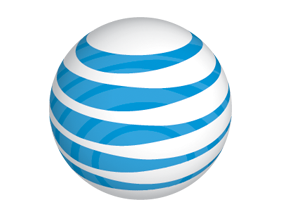
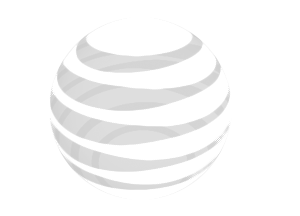
changed colors for some more consistency

Changed region(s): [[0.15, 0.0556, 0.78, 0.9444]]

diff --git a/index.html b/index.html
@@ -49,6 +49,8 @@
     <div id = "work-header"><div id = "workText">Where Have I Worked?</div></div>
     <section class = "workExperience">
       <div class="container">
+      <i class="icon-users theIcon"></i>
+      <h1 class="subtitleWork">Work Experience</h1>
   <section id="cd-timeline" class="cd-container">
     <div class="cd-timeline-block">
       <div class="cd-timeline-img cd-picture">
@@ -76,7 +78,7 @@
 
     <div class="cd-timeline-block">
       <div class="cd-timeline-img cd-picture">
-        <img src="img/cd-icon-picture.svg" alt="Picture">
+        <img src="images/uw.png" alt="Picture">
       </div> <!-- cd-timeline-img -->
 
       <div class="cd-timeline-content">
@@ -87,8 +89,8 @@
     </div> <!-- cd-timeline-block -->
 
     <div class="cd-timeline-block">
-      <div class="cd-timeline-img cd-location">
-        <img src="img/cd-icon-location.svg" alt="Location">
+      <div class="cd-timeline-img cd-picture">
+        <img src="images/uw.png" alt="Location" style = "margin-left: -24px;">
       </div> <!-- cd-timeline-img -->
 
       <div class="cd-timeline-content">
@@ -99,8 +101,8 @@
     </div> <!-- cd-timeline-block -->
 
     <div class="cd-timeline-block">
-      <div class="cd-timeline-img cd-location">
-        <img src="img/cd-icon-location.svg" alt="Location">
+      <div class="cd-timeline-img cd-picture">
+        <img src="images/uw.png" alt="Location" style = "margin-left: -24px;">
       </div> <!-- cd-timeline-img -->
 
       <div class="cd-timeline-content">
@@ -111,8 +113,8 @@
     </div> <!-- cd-timeline-block -->
 
     <div class="cd-timeline-block">
-      <div class="cd-timeline-img cd-movie">
-        <img src="img/cd-icon-movie.svg" alt="Movie">
+      <div class="cd-timeline-img cd-picture">
+        <img src="images/uw.png" alt="Movie" style = "margin-left: -24px;">
       </div> <!-- cd-timeline-img -->
 
       <div class="cd-timeline-content">
@@ -142,7 +144,7 @@
           <div class = "thirdsColumn " id="prank" data-action="bounce"><img src = "images/phone.png" class = "roundImageProject"/><div class = "subText"><h4>Prank Caller </h4><h5 class = "subThirds"> Twillio | Web Dev </h5></div></div>
           <div><i class = "icon-dot-3 theIcon"></i><div>
           <div class = "halfColumn"><h1>Other Coursework Projects</h1>
-In C++ I've also developed a Quadtree representation of a PNG image fully equiped with compression and decompression features. As well, I have implemented DFS and BFS fill algorithms in gif images. In C, I have developed a Soduku solver and logic for a self autonomous car with an Arduino and transistor-transistor logic.  </div>
+In C++ I've also developed a Quadtree representation of a PNG image fully equiped with compression and decompression features. As well, I have implemented DFS and BFS fill algorithms in gif images. In C, I have developed a Soduku solver and logic for a self autonomous car with an Arduino and transistor-transistor logic. </div>
       </div>
        <div class = "halfColumnRight"><h1>Other Personal Projects</h1>
 I've also created a web scrapper tool for NFL stats and a simple algorithmic trading simulator. Currently, I am taking a Udacity course in Machine Learning. I have self-studied iOS and Web Development.  </div>

diff --git a/css/grid.css b/css/grid.css
@@ -700,9 +700,10 @@ width: 120px;
    ========================================================================== */
 
 .workExperience{
-  background-color:#FFF;
+  background-color:#e0f1ec;
   color:black;
   overflow: hidden; 
+  font-color: #72706d;
 }
 .theIcon{
   font-size:100px;
@@ -999,35 +1000,13 @@ Custom Components
   width: 50px;
   height: 28px;
   margin-left: -25px;
-  margin-top: -15px;
+  margin-top: -13px;
 }
 
 /* -------------------------------- 
 
-Main components 
-
+Main Components
 -------------------------------- */
-headerTimeLine {
-  height: 200px;
-  line-height: 200px;
-  text-align: center;
-  background: #303e49;
-}
-headerTimeLine h1 {
-  color: white;
-  font-size: 18px;
-  font-size: 1.125rem;
-}
-@media only screen and (min-width: 1170px) {
-  headerTimeLine {
-    height: 300px;
-    line-height: 300px;
-  }
-  headerTimeLine h1 {
-    font-size: 24px;
-    font-size: 1.5rem;
-  }
-}
 
 #cd-timeline {
   position: relative;
@@ -1103,14 +1082,14 @@ headerTimeLine h1 {
   margin-top: -12px;
 }
 .cd-timeline-img.cd-picture {
-  background: #75ce66;
+  background: #c2e4d7;
 }
 .cd-timeline-img.cd-movie {
-  background: #A2DED0;
+  background: #c2e4d7;
 ;
 }
 .cd-timeline-img.cd-location {
-  background: #f0ca45;
+  background: #c2e4d7;
 }
 @media only screen and (min-width: 1170px) {
   .cd-timeline-img {
@@ -1197,7 +1176,7 @@ headerTimeLine h1 {
   border-radius: 0.25em;
   padding: 1em;
   box-shadow: 0 3px 0 #d7e4ed;
-  background-color: #336E7B;
+  background-color: white;
 }
 .cd-timeline-content:after {
   content: "";
@@ -1205,11 +1184,12 @@ headerTimeLine h1 {
   clear: both;
 }
 .cd-timeline-content h2 {
-  color: #303e49;
+  font-size: 1.5rem;
+  font-weight: 600;
 }
 .cd-timeline-content p, .cd-timeline-content .cd-read-more, .cd-timeline-content .cd-date {
-  font-size: 13px;
-  font-size: 0.8125rem;
+  color: #999;
+  font-size: 120%; 
 }
 .cd-timeline-content .cd-read-more, .cd-timeline-content .cd-date {
   display: inline-block;
@@ -1267,7 +1247,7 @@ headerTimeLine h1 {
     top: 24px;
     left: 100%;
     border-color: transparent;
-    border-left-color: #336E7B;
+    border-left-color: white;
   }
   .cd-timeline-content .cd-read-more {
     float: left;
@@ -1288,7 +1268,7 @@ headerTimeLine h1 {
     left: auto;
     right: 100%;
     border-color: transparent;
-    border-right-color: #336E7B;
+    border-right-color: white;
   }
   .cd-timeline-block:nth-child(even) .cd-timeline-content .cd-read-more {
     float: right;

diff --git a/js/custom.js b/js/custom.js
@@ -10,9 +10,10 @@ $(window).scroll(function(c) {
     }
 });
 
+
             $(document).ready(function() {
-                $('.tooltip').tooltipster();
-                            $('#globe').tooltipster({
+            $('.tooltip').tooltipster();
+            $('#globe').tooltipster({
                 arrow:true,
                 position:"bottom",
                 content: $('<div>Welcome Website</div>')
